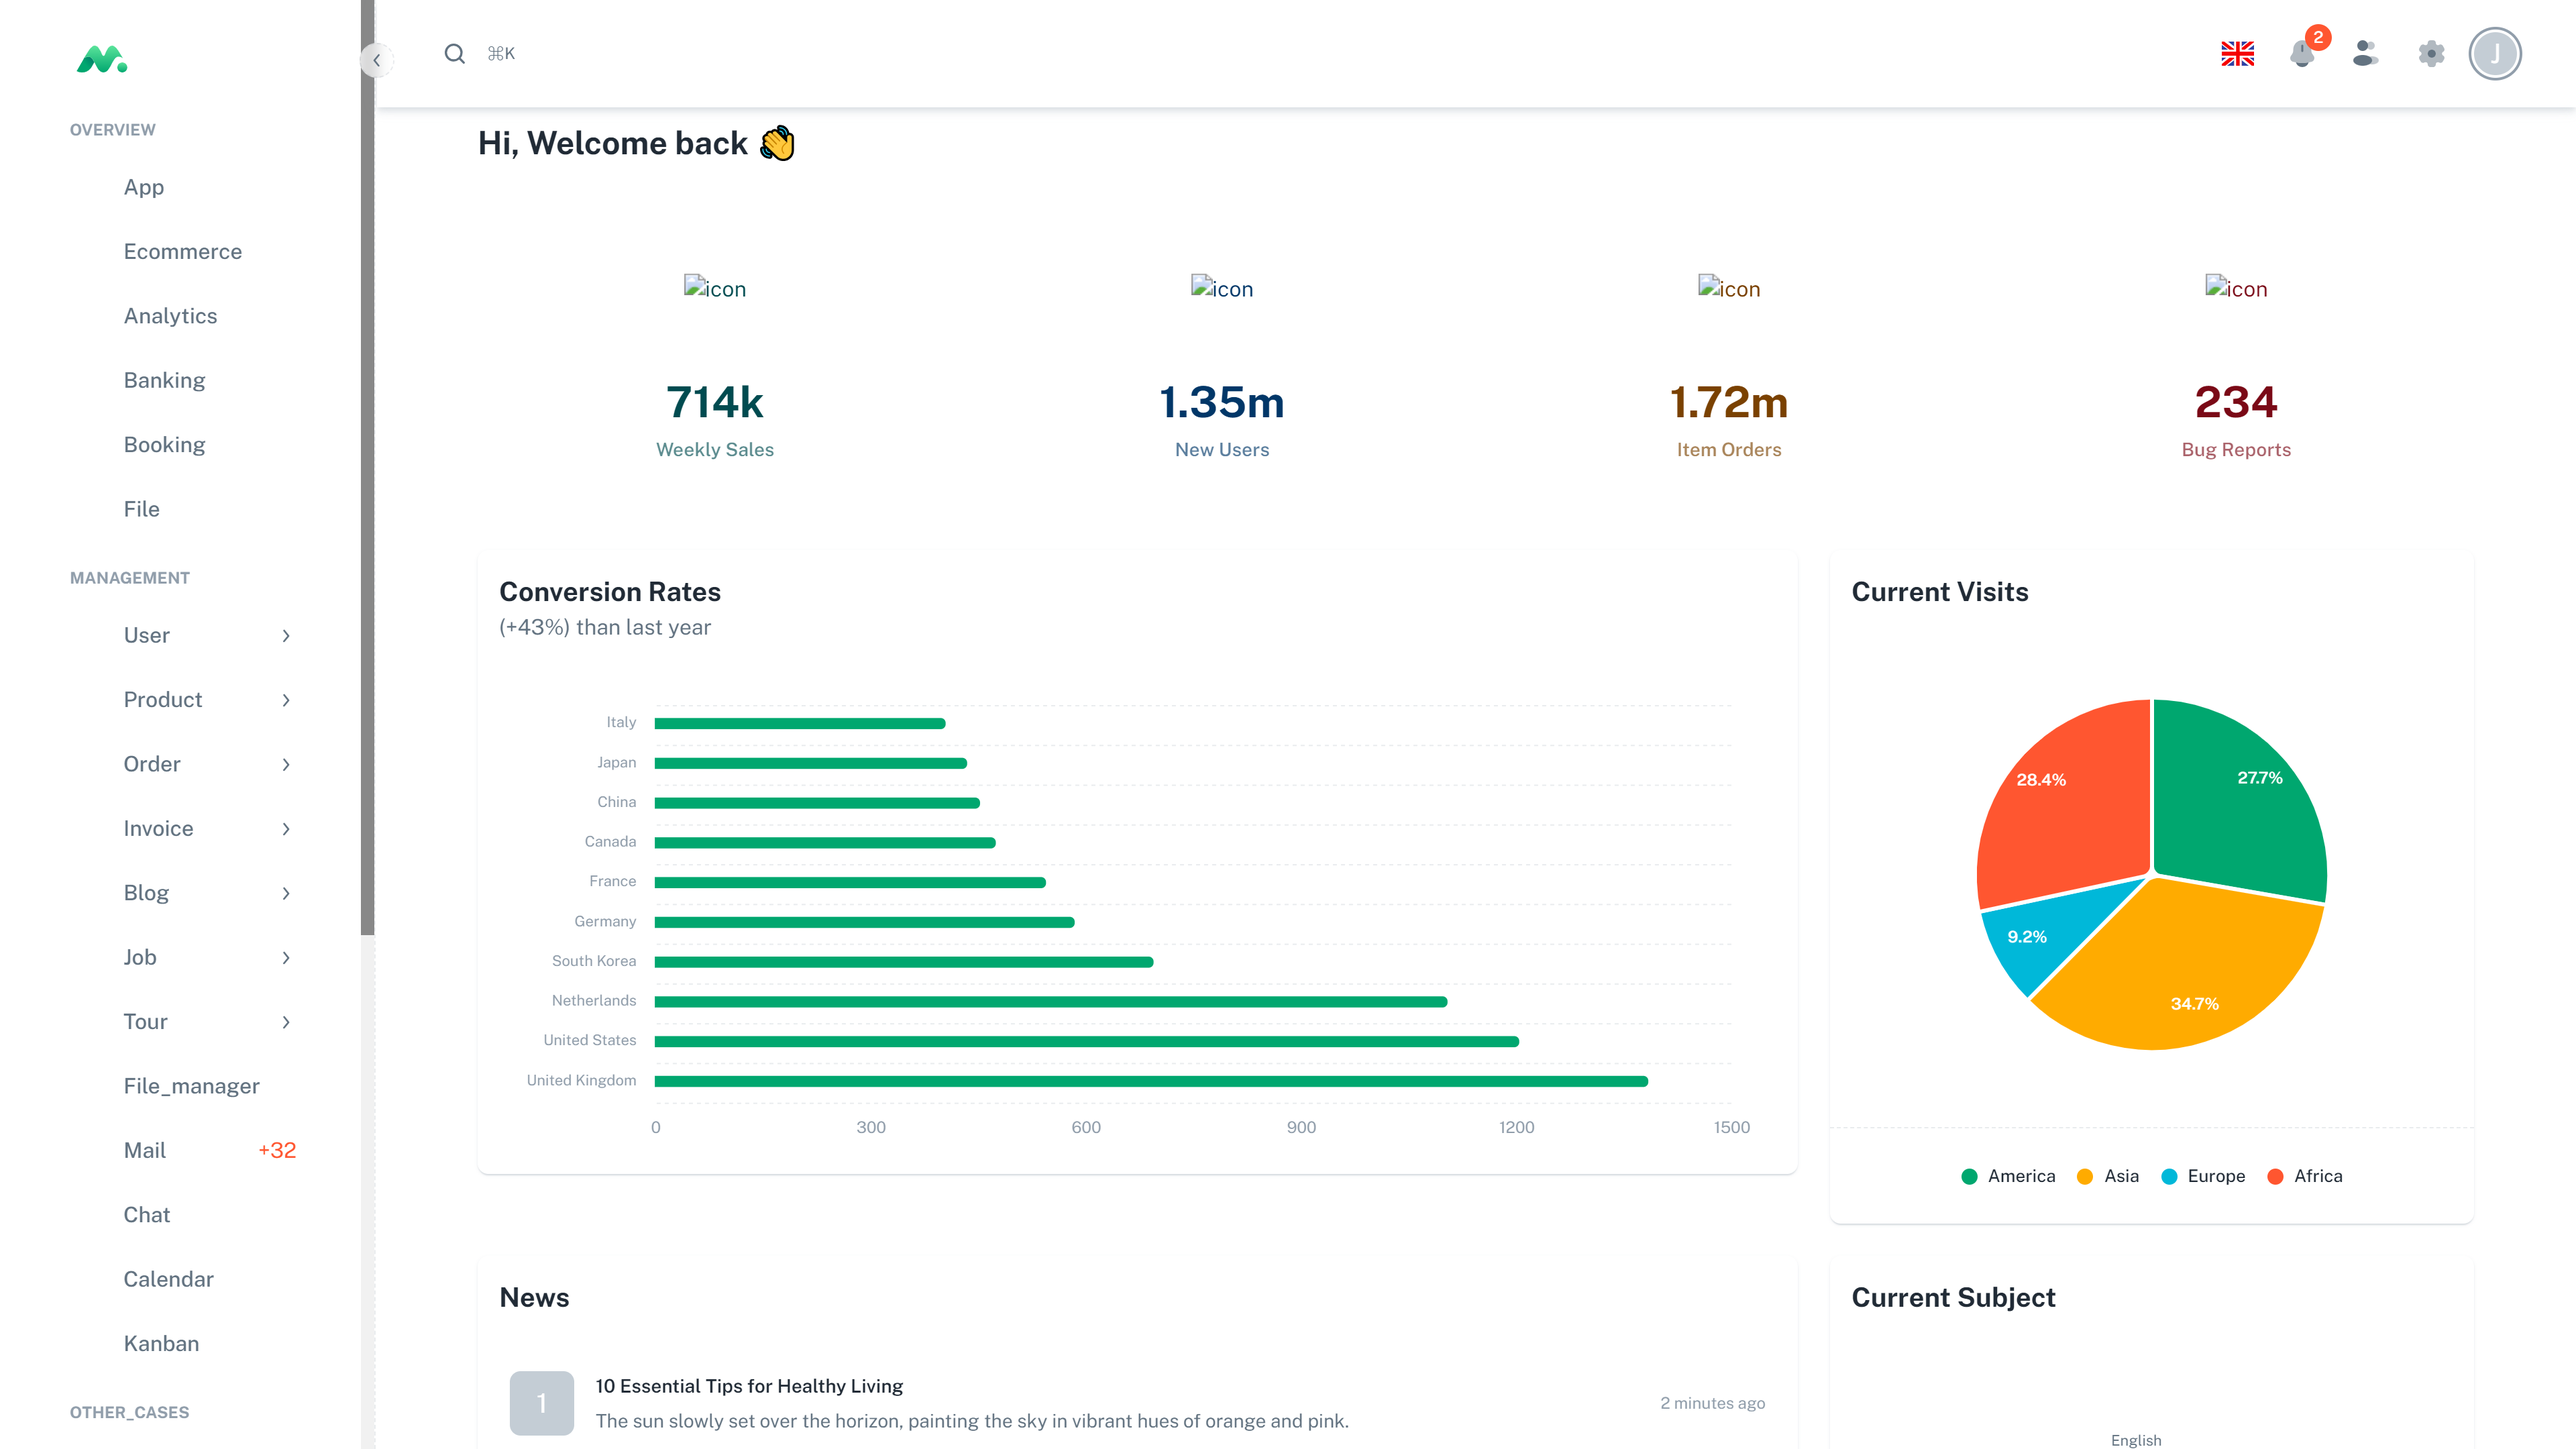
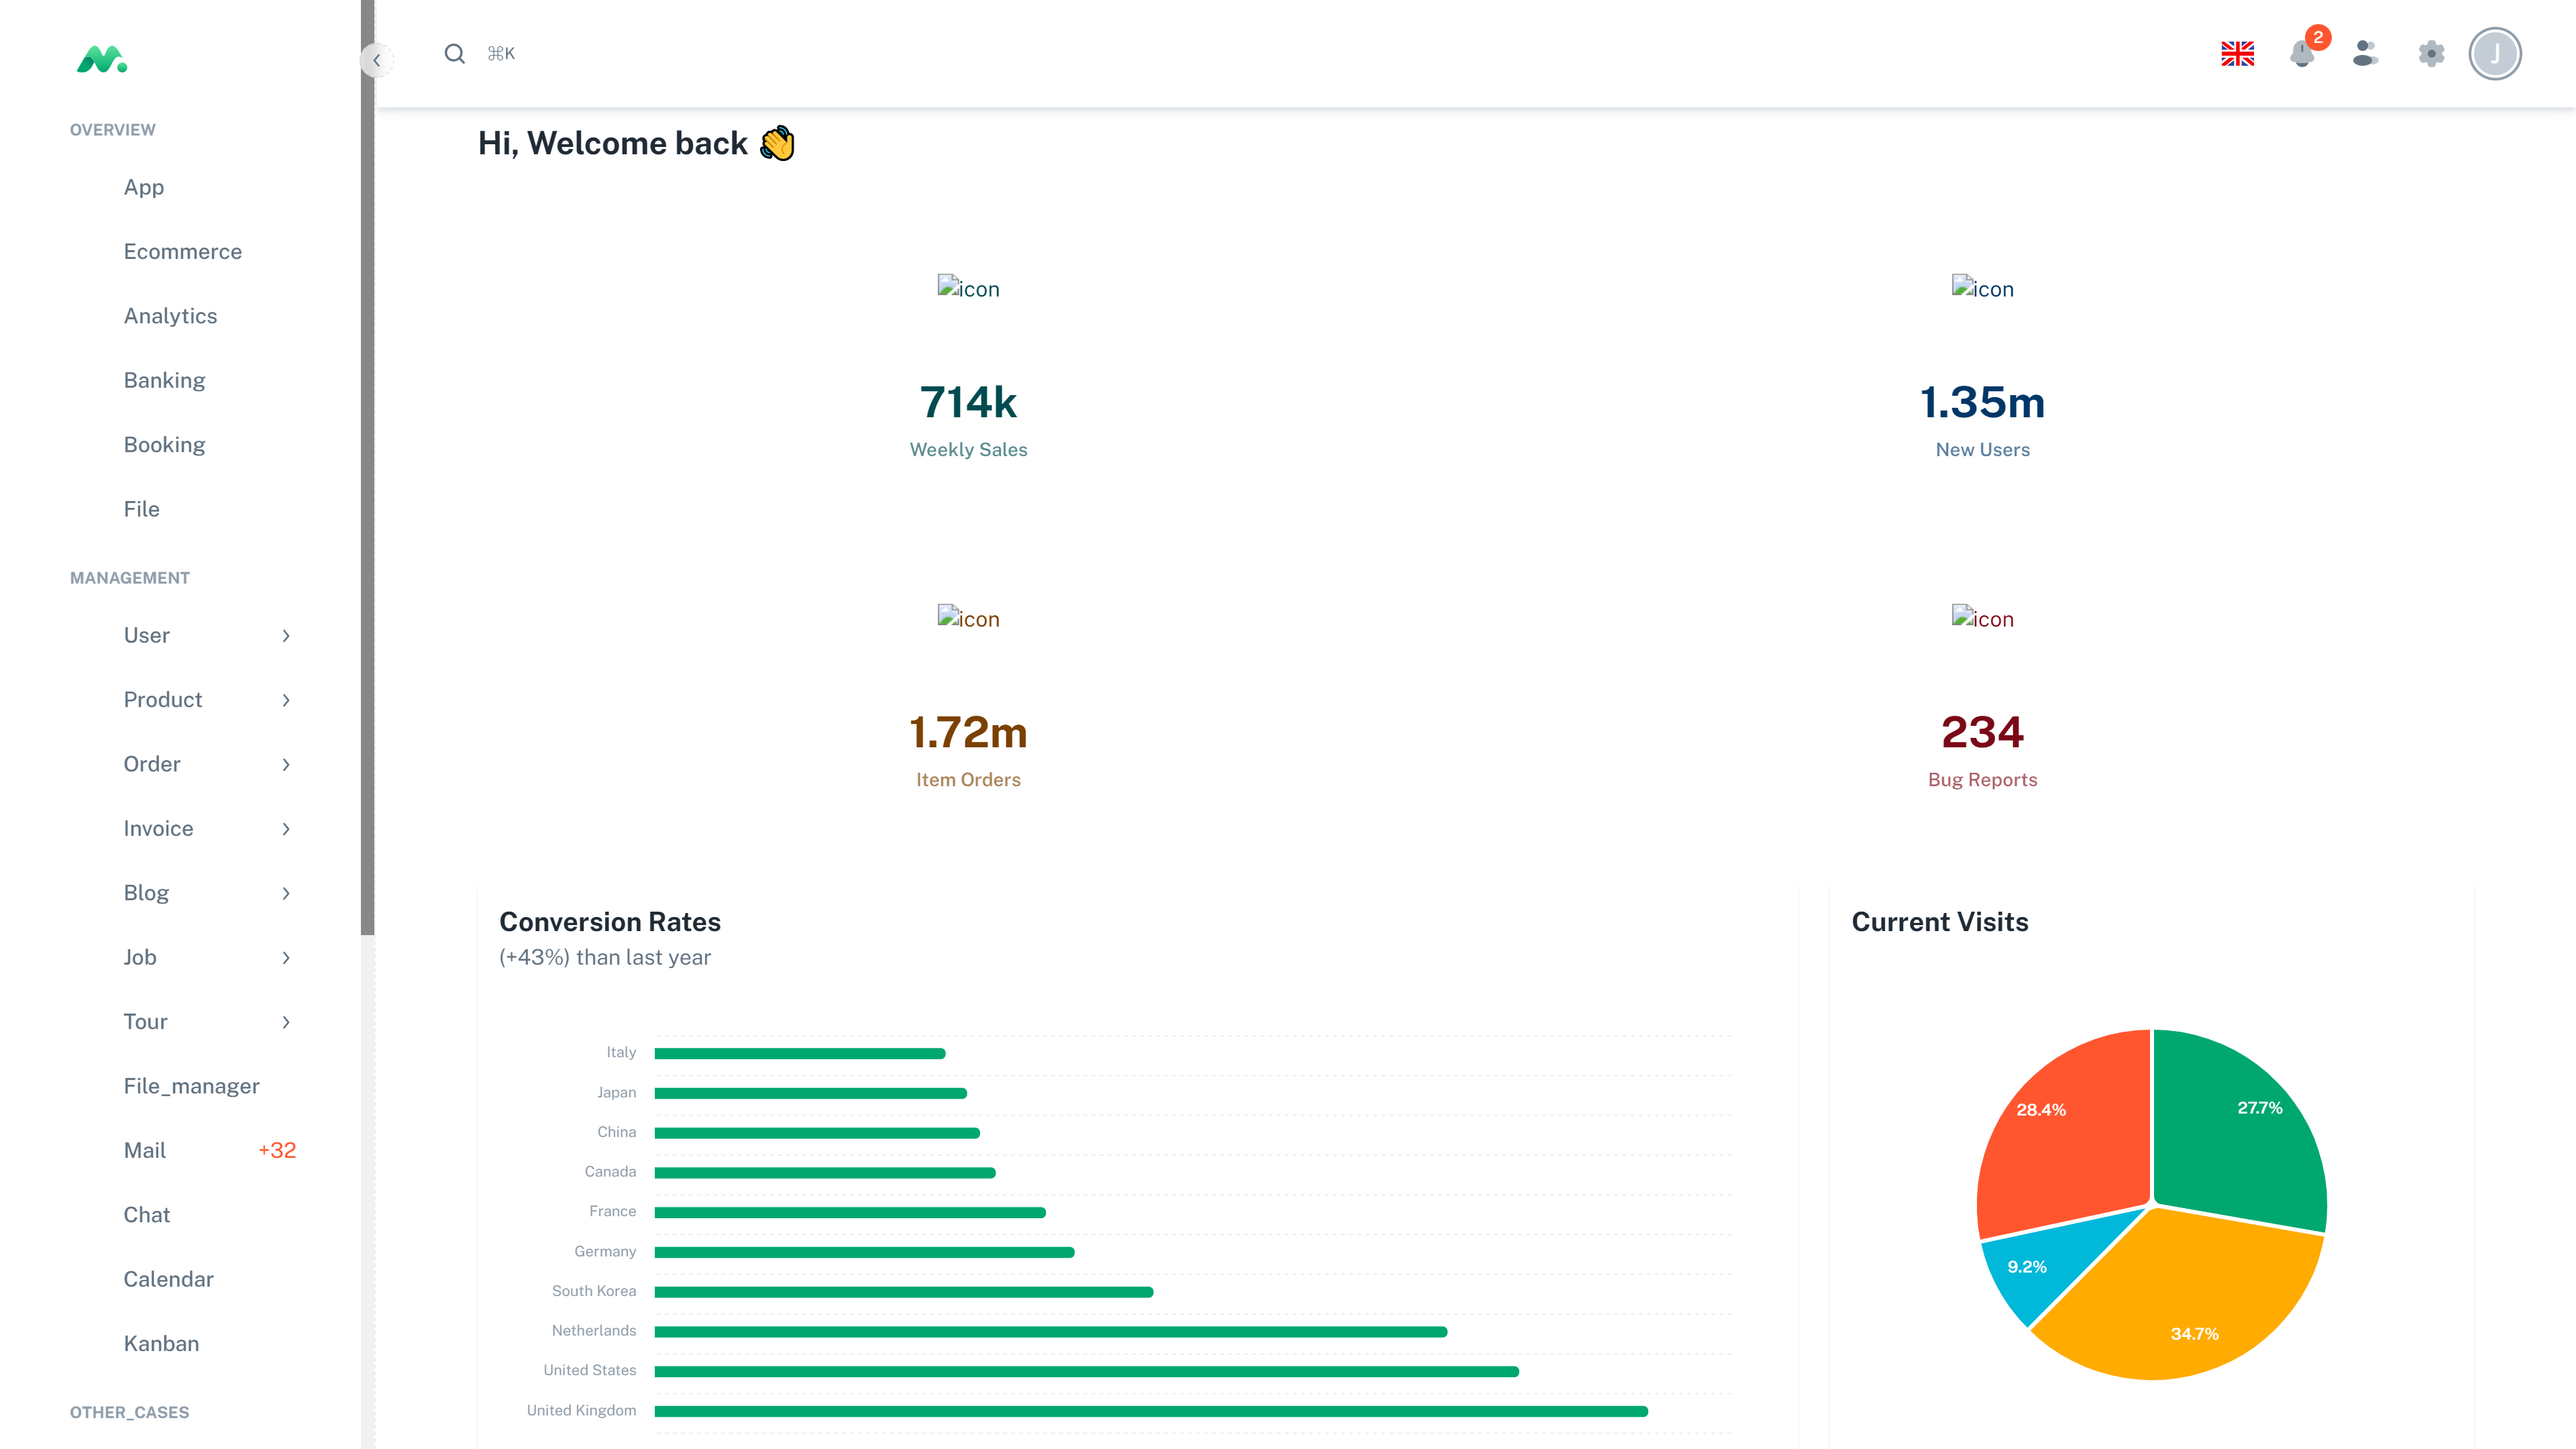
cr_11

diff --git a/src/pages/analytics/OverviewAnalyticsView.jsx b/src/pages/analytics/OverviewAnalyticsView.jsx
@@ -44,7 +44,7 @@ export default function OverviewAnalyticsView() {
       </Typography>
 
       <Grid container spacing={3}>
-        <Grid xs={12} sm={6} md={3}>
+        <Grid xs={12} sm={10} md={6}>
           <AnalyticsWidgetSummary
             title="Weekly Sales"
             total={714000}
@@ -52,7 +52,7 @@ export default function OverviewAnalyticsView() {
           />
         </Grid>
 
-        <Grid xs={12} sm={6} md={3}>
+        <Grid xs={12} sm={10} md={6}>
           <AnalyticsWidgetSummary
             title="New Users"
             total={1352831}
@@ -63,7 +63,7 @@ export default function OverviewAnalyticsView() {
           />
         </Grid>
 
-        <Grid xs={12} sm={6} md={3}>
+        <Grid xs={12} sm={10} md={6}>
           <AnalyticsWidgetSummary
             title="Item Orders"
             total={1723315}
@@ -72,7 +72,7 @@ export default function OverviewAnalyticsView() {
           />
         </Grid>
 
-        <Grid xs={12} sm={6} md={3}>
+        <Grid xs={12} sm={10} md={6}>
           <AnalyticsWidgetSummary
             title="Bug Reports"
             total={234}
@@ -119,10 +119,8 @@ export default function OverviewAnalyticsView() {
         </Grid>
 
        
-        <Grid xs={12} md={6} lg={8}>
-          <AnalyticsNews title="News" list={_analyticPosts} />
-        </Grid>
-        <Grid xs={12} md={6} lg={4}>
+       
+        <Grid xs={12} md={10} lg={10}>
           <AnalyticsCurrentSubject
             title="Current Subject"
             chart={{
@@ -141,6 +139,9 @@ export default function OverviewAnalyticsView() {
               ],
             }}
           />
+        </Grid>
+        <Grid xs={12} md={10} lg={10}>
+          <AnalyticsNews title="News" list={_analyticPosts} />
         </Grid>
 
         <Grid xs={12} md={6} lg={8}>
